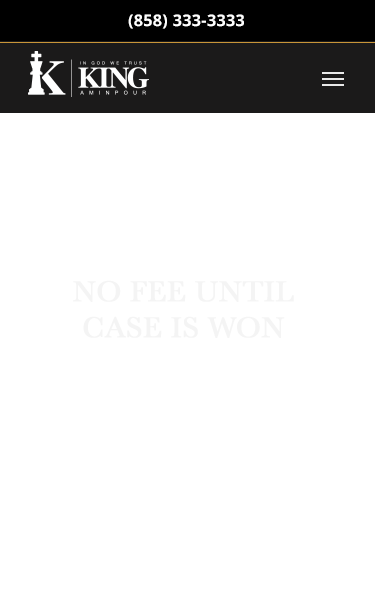
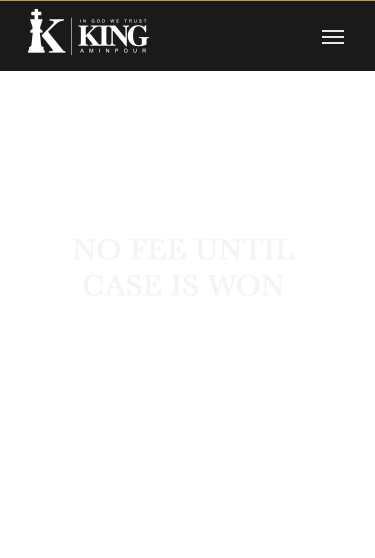
Added the phone call section

Changed region(s): [[0.0, 0.0, 1.0, 0.2133]]

diff --git a/index.html b/index.html
@@ -6,22 +6,36 @@
 	<style type="text/css">
 		body{
 			margin:0;
+			padding:0;
 		}
 		#container{
 			margin: 0 auto;
 			width: 375px;
 		}
+		#top{
+			background-color: black;
+		}
+		#phone{
+			color:white;
+			margin:0;
+			padding:10px 0;
+			text-align: center;
+			font-family: helvetica;
+		}
 		#video{
 			background-image: url("gif/ezgif.com-video-to-gif.gif");
 			background-repeat: no-repeat;	
 			background-size: 1463px 950px;
-			background-position:-50px 100px;
+			background-position:-50px 40px;
 		}
 	</style>
 </head>
 <body>
 	 <div id="container">
-	 	<div style="height: 559px;">
+	 	<div id="top">
+	 		<p id="phone">(858)  333 - 3333</p>
+	 	</div>
+	 	<div style="height: 558px;">
 	 		<img style="width:100%;" id="video" src="images/top.png">
 	 	</div>
 	 	<div>
